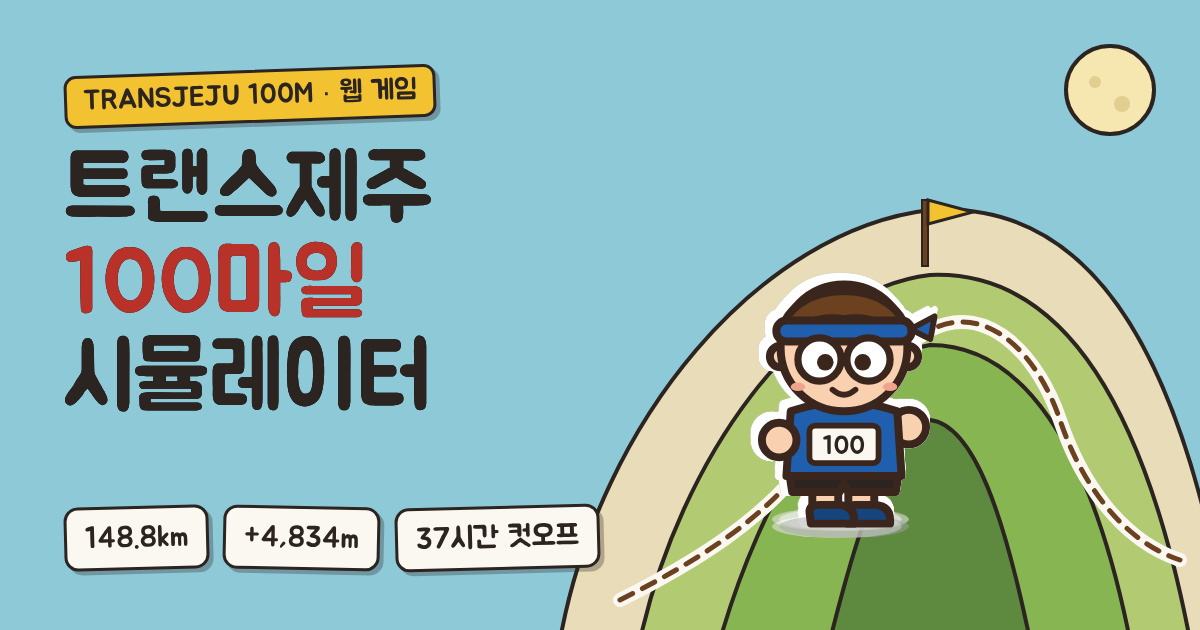
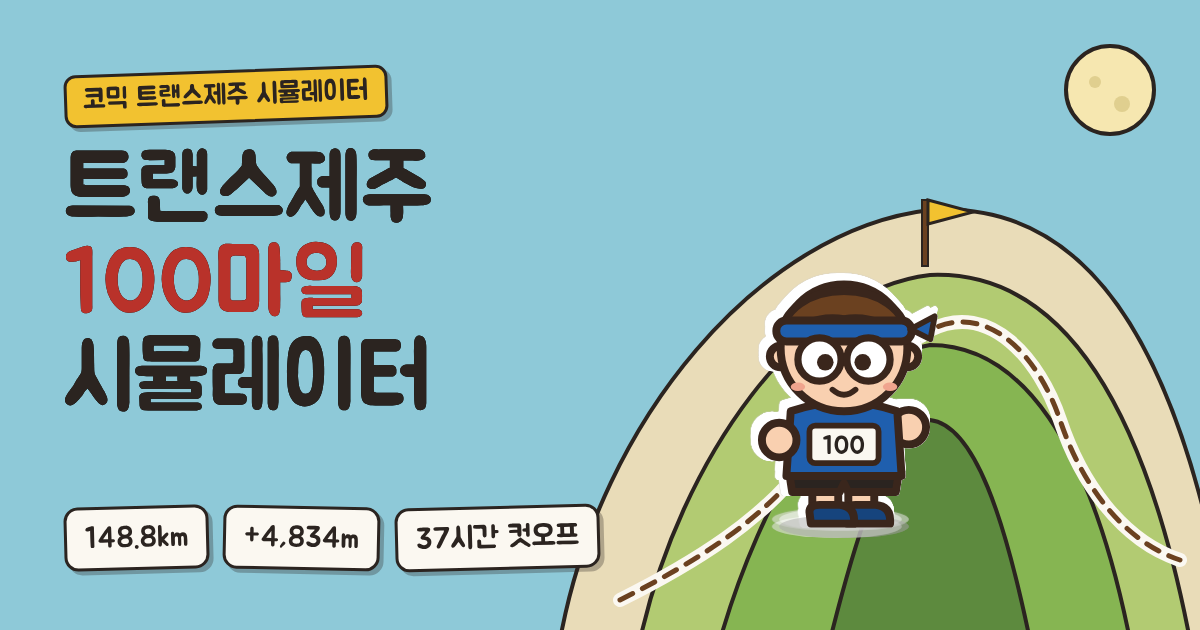
Add files via upload

Changed region(s): [[0.0617, 0.0905, 0.37, 0.2111]]

diff --git a/index.html b/index.html
@@ -1,7 +1,7 @@
 <!doctype html><html lang="ko"><head><meta charset="utf-8"><meta name="viewport" content="width=device-width,initial-scale=1,viewport-fit=cover">
-<meta name="description" content="한라산을 넘는 148.8km. 보급과 CP 선택으로 가상 러너 100명 중 1위를 노리는 트레일러닝 시뮬레이션 게임.">
+<meta name="description" content="코믹 트랜스제주 시뮬레이터. 한라산을 넘는 148.8km, 젤·노상 볼일·멧돼지와 함께 가상 1위를 노리는 트레일러닝 게임.">
 <meta property="og:type" content="website"><meta property="og:site_name" content="트랜스제주 100마일 시뮬레이터">
-<meta property="og:title" content="트랜스제주 100마일 시뮬레이터"><meta property="og:description" content="한라산을 넘는 148.8km. 보급과 CP 선택으로 가상 1위를 노려 보세요.">
+<meta property="og:title" content="트랜스제주 100마일 시뮬레이터"><meta property="og:description" content="코믹 트랜스제주 시뮬레이터. 젤·노상 볼일·멧돼지와 함께 한라산 148.8km를 달려 가상 1위를 노려 보세요.">
 <meta property="og:url" content="https://spacehwi.github.io/transjeju/"><meta property="og:image" content="https://spacehwi.github.io/transjeju/og.png"><meta property="og:image:width" content="1200"><meta property="og:image:height" content="630">
 <meta name="twitter:card" content="summary_large_image"><meta name="twitter:title" content="트랜스제주 100마일 시뮬레이터"><meta name="twitter:image" content="https://spacehwi.github.io/transjeju/og.png">
 <link rel="icon" href="favicon.svg" type="image/svg+xml"><link rel="icon" href="favicon-32.png" sizes="32x32" type="image/png"><link rel="apple-touch-icon" href="apple-touch-icon.png"><meta name="theme-color" content="#f2c230">
@@ -102,6 +102,8 @@ input[type=text]{font-family:var(--display);font-size:20px;border:2px solid var(
 .mapbox svg{display:block;width:100%;height:auto}
 .quip{position:absolute;left:50%;top:12px;transform:translateX(-50%) rotate(-1deg);max-width:min(78%,520px);background:var(--card);border:2px solid var(--ink);border-radius:14px;box-shadow:3px 3px 0 var(--shadow);padding:7px 14px;font-family:var(--display);font-size:16px;line-height:1.3;text-align:center;pointer-events:none;z-index:2}
 .quip::after{content:'';position:absolute;left:50%;bottom:-9px;width:14px;height:14px;background:var(--card);border-right:2px solid var(--ink);border-bottom:2px solid var(--ink);transform:translateX(-50%) rotate(45deg)}
+.quip .fxs{justify-content:center;margin-top:5px}
+.quip.event{background:#fff1b8}
 .quip.pop{animation:quipIn .35s ease-out}
 @keyframes quipIn{from{opacity:0;transform:translateX(-50%) translateY(-8px) rotate(-3deg)}to{opacity:1;transform:translateX(-50%) rotate(-1deg)}}
 @media (max-width:560px){.quip{font-size:13px;padding:5px 10px;max-width:88%}}
@@ -213,14 +215,13 @@ input[type=text]{font-family:var(--display);font-size:20px;border:2px solid var(
   .cplist{grid-template-columns:minmax(0,1fr)}
 }
 </style>
-<script src="firebase-config.js"></script></head><body>
-<div class="app" id="app">
+<script src="firebase-config.js"></script></head><body><div class="app" id="app">
 
 <!-- ============ SETUP ============ -->
 <section id="scrSetup" style="display:flex;flex-direction:column;gap:16px">
   <header class="hero">
     <div>
-      <div class="lbl">TRANSJEJU 100M · 가상 레이스</div>
+      <div class="lbl">코믹 트랜스제주 시뮬레이터 · 가상 레이스</div>
       <h1>트랜스제주 <b>100마일</b> 시뮬레이터</h1>
       <p>금요일 밤 9시 제주월드컵경기장 출발. 한라산 정상을 넘어 동쪽 들판과 숲을 돌아 다시 경기장으로. 보급과 CP 선택으로 가상 1위를 노리세요.</p>
     </div>
@@ -312,8 +313,7 @@ input[type=text]{font-family:var(--display);font-size:20px;border:2px solid var(
 </div>
 <div id="modalRoot"></div>
 <div class="toast" id="toast" style="opacity:0"></div>
-<script>
-/*CORE*/
+<script>/*CORE*/
 // ---------- course data (TransJeju 100M, 148.8 km) ----------
 const START_CLOCK = 21 * 60; // Fri 21:00
 const STEP = 0.1;
@@ -509,7 +509,7 @@ const FUN = [
   {id:'snake', w:2, text:'발밑에서 뱀이 스르륵. 심장이 먼저 결승선에 갔다.', M:-6, day:true},
   {id:'cheer', w:3, text:'응원단이 내 이름을 불렀다. 배번을 읽은 거지만 감동이다.', M:8, low:true},
   {id:'lost',  w:2, modal:true, title:'리본이 안 보인다', text:'한참 리본을 못 봤다. 길을 잘못 들었나?', M:-5},
-  {id:'rain',  w:2, text:'비가 쏟아진다. 신발이 수족관이 됐다.', M:-4},
+  {id:'rain',  w:2, text:'비가 쏟아진다. "비는 받아들여라." 받아들일 수밖에 없다.', M:-4},
   {id:'horse', w:2, text:'목장의 말이 같이 뛰어 준다. 말이 더 잘 뛴다.', M:4, low:true},
   {id:'cat',   w:2, text:'CP 앞 고양이가 내 바나나를 노린다.', M:3, low:true},
   {id:'owl',   w:2, text:'부엉이가 운다. 무서운 건지 졸린 건지 모르겠다.', M:-2, night:true},
@@ -535,9 +535,10 @@ const FUN = [
 ];
 function pickFun(st){
   const hc = clockHour(st.t), night = hc >= 19.5 || hc < 6, ele = elevAt(st.km);
-  const pool = FUN.filter(f => !(f.day && night) && !(f.night && !night) && !(f.high && ele < 900) && !(f.low && ele > 700) && !(f.sleepy && st.Z < 50) && !(f.late && st.km < 100));
+  st.funSeen = st.funSeen || {};
+  const pool = FUN.filter(f => (st.funSeen[f.id] || 0) < (f.modal ? 1 : 2) && !(f.day && night) && !(f.night && !night) && !(f.high && ele < 900) && !(f.low && ele > 700) && !(f.sleepy && st.Z < 50) && !(f.late && st.km < 100));
   let r = Math.random() * pool.reduce((a, f) => a + f.w, 0);
-  for (const f of pool){ r -= f.w; if (r <= 0) return f; }
+  for (const f of pool){ r -= f.w; if (r <= 0){ st.funSeen[f.id] = (st.funSeen[f.id] || 0) + 1; return f; } }
   return null;
 }
 function rollEvents(st, km){
@@ -549,7 +550,7 @@ function rollEvents(st, km){
   if (st.F > 35 && !st.blister && ok('blister') && chance(0.002*(1.6 - 0.05*s.dur))){ st.blister = true; st.cd.blister = km + 10; return {type:'blister'}; }
   if (st.E < 8 && ok('bonk')){ st.cd.bonk = km + 3; return {type:'bonk'}; }
   if (st.M < 4 && ok('quit')){ st.cd.quit = km + 6; return {type:'quit'}; }
-  if (ok('fun') && chance(0.035)){ st.cd.fun = km + 1.3; const f = pickFun(st); if (f) return {type:'fun', f}; }
+  if (ok('fun') && chance(0.02)){ st.cd.fun = km + 2; const f = pickFun(st); if (f) return {type:'fun', f}; }
   return null;
 }
 const SCENIC = [
@@ -576,7 +577,7 @@ function advance(st, dtMin){
     for (const sc of SCENIC) if (st.km >= sc.km && !st.flags[sc.id]){ st.flags[sc.id] = true; st.M += sc.M; clamp(st); return {type:'scenic', text:sc.text}; }
     if (hitCP) return {type:'cp', idx: st.seg + 1};
     for (let m = Math.floor(k0*10) + 1; m <= Math.floor(st.km*10); m++){ const ev = rollEvents(st, m/10); if (ev) return ev; }
-    if (st.t >= st.nextSupply){ st.nextSupply = st.t + 30 + Math.random()*12; if (st.km < TOTAL_KM - 2) return {type:'supply'}; }
+    if (st.t >= st.nextSupply){ st.nextSupply = st.t + 38 + Math.random()*12; if (st.km < TOTAL_KM - 2) return {type:'supply'}; }
   }
   return null;
 }
@@ -598,7 +599,7 @@ const FOOD = {
   noodle:  {name:'컵라면',        min:5, c:50, w:350, na:1500, caf:0,  hint:'탄수 50g · 국물 350ml · 나트륨 1500mg', fx:st => { st.M += 10; }},
   coffee:  {name:'커피',          min:1, c:0,  w:150, na:0,    caf:80, hint:'카페인 80mg'},
   toilet:  {name:'화장실',        min:3, c:0,  w:0,   na:0,    caf:0,  hint:'화장실 비우기 · 속 편하게', fx:st => { st.B = 0; st.S = Math.max(0, st.S - 15); st.holding = false; if (Math.random() < 0.3){ st.t += 4; st.M -= 3; st.note = '간이화장실 줄이 7명. 다들 같은 표정이다. 4분 대기.'; } }},
-  rest:    {name:'의자에 앉아 쉬기', min:5, c:0, w:0, na:0,    caf:0,  hint:'멘탈↑ 근피로 조금↓', fx:st => { st.F -= 3; st.M += 8; st.Z += 3; }},
+  rest:    {name:'의자에 앉아 쉬기', min:5, c:0, w:0, na:0,    caf:0,  hint:'멘탈↑ · "의자를 조심하라"', fx:st => { st.F -= 3; st.M += 8; st.Z += 3; }},
   dropbag: {name:'드롭백 재보급', min:3, c:0,  w:0,   na:0,    caf:0,  hint:'보급품 충전 — 젤 8·카페인젤 2·바 2·소금 8', crew:true, fx:st => { st.inv = {...KIT, water: st.inv.water}; }},
   socks:   {name:'양말·신발 교체', min:6, c:0, w:0,   na:0,    caf:0,  hint:'물집 해결', crew:true, fx:st => { st.blister = false; st.F -= 2; st.M += 5; }},
   nap:     {name:'파워냅 15분',   min:15, c:0, w:0,   na:0,    caf:0,  hint:'졸음 리셋·멘탈↑↑', crew:true, fx:st => { st.Z = 5; st.M += 15; }},
@@ -939,9 +940,20 @@ function statusTags(){
   const hc = clockHour(st.t); if (hc >= 19.5 || hc < 6) t.push('야간 · 헤드랜턴');
   return t.map(x => `<span class="tag">${x}</span>`).join('');
 }
-function addLog(text){ st.log.unshift(fmtClock(st.t).slice(2) + '  ' + text); st.log.length = Math.min(st.log.length, 6); $('#log').innerHTML = st.log.map(l => `<div>${esc(l)}</div>`).join(''); }
+let lastLogText = '';
+function addLog(text){ lastLogText = text; st.log.unshift(fmtClock(st.t).slice(2) + '  ' + text); st.log.length = Math.min(st.log.length, 6); $('#log').innerHTML = st.log.map(l => `<div>${esc(l)}</div>`).join(''); }
 let toastT = 0;
-function toast(text){ const el = $('#toast'); el.textContent = text; el.style.opacity = 1; clearTimeout(toastT); toastT = setTimeout(() => el.style.opacity = 0, 2600); }
+// All race messages go to the speech bubble above the map; stat changes appear as coloured chips.
+let sayUntil = 0;
+function say(text, fx){
+  const el = document.getElementById('quip'); if (!el) return;
+  el.classList.remove('pop'); void el.offsetWidth; el.classList.add('pop');
+  el.classList.toggle('event', !!(fx && fx.length) || !!text);
+  el.innerHTML = `<span></span>${fx && fx.length ? `<div class="fxs">${fxChips(fx)}</div>` : ''}`;
+  el.querySelector('span').textContent = text || '';
+  sayUntil = performance.now() + 7000; quipLast = performance.now();
+}
+function toast(text, fx){ say(text, fx); }
 function standings(){
   const list = rivals.map((r, i) => ({ name: r.name, km: rivalKm(r, st.t), fin: st.t >= r.target ? r.target : null, rival: i }));
   list.push({ name: me.name, km: st.km, fin: finished ? st.t : null, me: true });
@@ -1068,26 +1080,27 @@ function previewFx(keys){
 
 // ---------- runner monologue (black comedy) ----------
 const QUIPS = {
-  bonk:  ['몸이 배터리 1%에서 업데이트를 하겠냐고 묻는다.','젤 하나에 영혼을 팔 수 있다. 시세는 많이 떨어졌지만.','다리가 파업 중. 요구사항은 탄수화물 하나.','방금 내 그림자가 나를 추월했다.'],
-  dry:   ['땀이 안 난다. 몸이 수분을 사치품으로 분류했다.','입안이 현무암이다. 구멍까지 똑같다.','물 생각을 너무 해서 바다가 맛있어 보인다.'],
-  salt:  ['종아리가 쥐 날 타이밍을 재고 있다. 눈치가 보인다.','몸에서 소금기가 빠져나간다. 이제 싱거운 사람이 됐다.'],
-  gut:   ['위장이 오늘부로 퇴사 의사를 밝혔다.','지금 방귀는 도박이다. 판돈이 너무 크다.','배 속에서 젤들이 회의 중. 결론은 \'밖으로\'.','먹은 게 다 위에 줄 서 있다. 소화 대기 번호 37번.'],
-  legs:  ['허벅지가 내 이름을 모른다고 한다.','무릎이 유언장을 쓰고 있다. 상속자는 정형외과.','다리가 내 말을 안 듣는다. 원래도 안 들었지만.'],
-  sleep: ['방금 돌하르방이 나한테 인사했다. 아마도.','눈 뜨고 자는 법을 터득했다. 달리는 건 몸이 알아서 한다.','나무가 사람처럼 보인다. 사람이 나무처럼 보이면 더 큰일이다.'],
-  pee:   ['화장실 생각뿐이다. 인생 우선순위 정리 완료.','방광이 컷오프보다 먼저 온다.','적당한 덤불을 찾는 눈이 독수리처럼 예리해졌다.','방광이 나보다 먼저 결승선에 가려고 한다.'],
-  mind:  ['왜 돈 내고 이걸 하고 있지? 그것도 추첨까지 해서.','완주 메달은 결국 서랍에 들어간다. 알면서도 간다.','다음 생엔 그냥 귤 농사 짓는다.'],
+  bonk:  ['"울트라는 풍경 좀 곁들인 먹기 대회다." 나는 지금 그 대회에서 지는 중.','"일단 먹어라." 기권 이유 1순위는 안 먹어서라던데.','다리가 파업 중. 요구사항은 탄수화물 하나.','방금 내 그림자가 나를 추월했다.'],
+  dry:   ['"목마르기 전에 마셔라." 이미 늦었다.','입안이 현무암이다. 구멍까지 똑같다.','물 생각을 너무 해서 바다가 맛있어 보인다.'],
+  salt:  ['종아리가 쥐 날 타이밍을 재고 있다. 눈치가 보인다.','땀에서 소금꽃이 핀다. 몸이 소금을 수출 중이다.'],
+  gut:   ['울트라 제1법칙: 방귀를 믿지 마라.','위장이 오늘부로 퇴사 의사를 밝혔다.','먹은 게 다 위에 줄 서 있다. 소화 대기 번호 37번.'],
+  legs:  ['"무릎은 소모품이다." 오늘 많이 소모하는 중.','허벅지가 내 이름을 모른다고 한다.','다리가 내 말을 안 듣는다. 원래도 안 들었지만.'],
+  sleep: ['방금 돌하르방이 나한테 인사했다. 아마도.','눈 뜨고 자는 법을 터득했다. 달리는 건 몸이 알아서 한다.','"걷다가 졸면 걷는 게 아니다." 누가 한 말인지 기억도 안 난다.'],
+  pee:   ['"덤불은 아무도 판단하지 않는다." 울트라 격언이다. 덤불 물색 중.','방광이 컷오프보다 먼저 온다.','적당한 덤불을 찾는 눈이 독수리처럼 예리해졌다.'],
+  mind:  ['"항상 나빠지기만 하는 건 아니다." 선배들 말이다. 믿어 보자.','"집에 있는 사람들은 지금 소파에서 피자 먹는다." 이 생각은 도움이 안 된다.','"DNF가 DNS보다 낫다." 그래도 DNF는 싫다.','힘들 땐 내 장례식을 상상하라는 조언이 있다. 조문객이 생각보다 적다.','"그만둘 거면 의자에 10분 앉아 보고 결정해라." …의자가 없다.'],
   blister:['발바닥 물집이 자기 동네를 만들었다. 이장도 뽑았다.','한 걸음마다 발이 나한테 리뷰를 남긴다. 별 한 개.'],
   hold:  ['참는 중. 이건 레이스가 아니라 수행이다.','지금 이 순간, 표정 관리가 제일 어려운 종목이다.'],
   cramp: ['종아리가 독립선언을 했다.','근육이 돌처럼 굳었다. 제주답다.'],
-  cutoff:['컷오프가 뒤에서 숨을 쉰다. 입냄새까지 느껴진다.','시계를 보면 안 된다. 시계도 나를 안 보고 싶어 한다.'],
-  up:    ['오르막이 끝나면 더 큰 오르막이 있다. 한라산은 거짓말을 안 한다.','방금 등산객이 나를 추월했다. 그분은 지팡이를 짚었다.','오르막에서 뛰는 척하는 중. 아무도 속지 않는다.'],
+  cutoff:['컷오프가 뒤에서 숨을 쉰다. 입냄새까지 느껴진다.','"시계는 거짓말을 한다." 제발 이번엔 거짓말이길.'],
+  up:    ['"오르막은 걷는 거다. 걷는 건 반칙이 아니다."','방금 등산객이 나를 추월했다. 그분은 지팡이를 짚었다.','오르막에서 뛰는 척하는 중. 아무도 속지 않는다.'],
   down:  ['중력은 공짜인데 무릎값은 내가 낸다.','내리막에서 넘어지면 빠르긴 하다.'],
-  night: ['헤드랜턴 불빛 안에서만 세상이 존재한다. 철학 아님, 그냥 졸림.','어둠 속에서 뭔가 반짝인다. 노루 눈이거나, 환각이거나.'],
-  front: ['내가 상위권? 다들 길을 잃은 게 분명하다.','앞에 아무도 없다. 길을 잘못 든 건 아니겠지.'],
-  back:  ['뒤에서 1등 노리는 중. 경쟁이 치열하지 않아 유리하다.','앞사람 헤드랜턴이 별처럼 멀다.'],
+  night: ['헤드랜턴 불빛 안에서만 세상이 존재한다.','앞 주자 헤드랜턴만 따라가는 중. 저 사람도 길 모르면 끝이다.','밤공기가 차다. 바람막이를 꺼낼까 말까 10분째 고민 중.','리본 반사판이 반짝일 때마다 안심한다.'],
+  nightLate: ['헤드랜턴 불빛 안에서만 세상이 존재한다. 철학 아님, 그냥 졸림.','어둠 속에서 뭔가 반짝인다. 노루 눈이거나, 환각이거나.','두 번째 밤이다. 몸이 "이거 어제도 했잖아"라고 항의한다.'],
+  front: ['"추월할 땐 겸손하게." 숨 헐떡이며 겸손 연기 중.','내가 상위권? 다들 길을 잃은 게 분명하다.'],
+  back:  ['뒤에서 1등 노리는 중. 경쟁이 치열하지 않아 유리하다.','"남과 비교하지 마라." 비교할 사람도 안 보인다.'],
   push:  ['밀어붙이는 중. 미래의 나에게 청구서를 보내는 중.','지금 신나는 건 나중의 내가 갚는다.'],
-  easy:  ['아끼는 중. 뭘 아끼는지는 나도 모른다.','천천히 가는 것도 전략이다. 라고 나에게 말해 주는 중.'],
-  fine:  ['아직 괜찮다. 이 문장을 몇 시간 뒤에 후회할 예정.','기분이 좋다. 분명 뭔가 잘못됐다는 신호다.','148.8km라니. 차로 가도 멀다.','제주 바람이 응원해 준다. 아니, 그냥 맞바람이다.','오늘의 목표: 살아서 경기장 보기.']
+  easy:  ['아끼는 중. 뭘 아끼는지는 나도 모른다.','"초반에 아끼면 후반에 웃는다." 라고 나에게 말해 주는 중.'],
+  fine:  ['"지금 이 1마일만 달려라." 남은 건 140km 넘지만.','"계획은 덜, 적응은 더." 계획은 출발선에서 이미 무너졌다.','아직 괜찮다. 이 문장을 몇 시간 뒤에 후회할 예정.','다들 출발할 때 너무 빨랐다. 나도 그랬다.','제주 바람이 응원해 준다. 아니, 그냥 맞바람이다.','"레이스 날엔 새로운 건 금지." 새 양말 신고 왔다.']
 };
 let quipLast = 0, quipKey = '', quipRecent = [];
 function quipCandidates(){
@@ -1098,7 +1111,7 @@ function quipCandidates(){
   if (st.S > 70) c.push(['gut', 7]); if (st.H < 30) c.push(['dry', 7]); if (st.Z > 65) c.push(['sleep', 6]);
   if (st.B > 80) c.push(['pee', 6]); if (st.F > 65) c.push(['legs', 5]); if (st.Na < 25) c.push(['salt', 5]); if (st.blister) c.push(['blister', 4]);
   if (g > 0.1) c.push(['up', 3]); if (g < -0.1) c.push(['down', 3]);
-  if (hc >= 21 || hc < 5) c.push(['night', 2]);
+  if (hc >= 21 || hc < 5) c.push([st.t > 1200 ? 'nightLate' : 'night', 2]);
   const sd = standings(), r = sd.findIndex(x => x.me) + 1;
   if (r <= 5 && st.km > 3) c.push(['front', 2]); if (r > sd.length * 0.7) c.push(['back', 2]);
   if (st.pace === 'push') c.push(['push', 2]); if (st.pace === 'easy') c.push(['easy', 1]);
@@ -1107,6 +1120,7 @@ function quipCandidates(){
 }
 function quip(force){
   const now = performance.now();
+  if (now < sayUntil) return;
   const c = quipCandidates(), top = c[0][0];
   if (!force && top === quipKey && now - quipLast < 16000) return;
   if (!force && now - quipLast < 5000) return;
@@ -1115,8 +1129,8 @@ function quip(force){
   quipRecent.push(line); if (quipRecent.length > 8) quipRecent.shift();
   quipKey = top; quipLast = now;
   const el = document.getElementById('quip'); if (!el) return;
-  el.classList.remove('pop'); void el.offsetWidth; el.classList.add('pop');
-  el.querySelector('span').textContent = line;
+  el.classList.remove('pop', 'event'); void el.offsetWidth; el.classList.add('pop');
+  el.innerHTML = '<span></span>'; el.querySelector('span').textContent = line;
 }
 
 // ---------- modals ----------
@@ -1125,31 +1139,31 @@ function showModal({kick, title, body, choices, gauges}){
   modalOpen = true;
   const html = `<div class="ov"><div class="paper modal" role="dialog" aria-modal="true" aria-labelledby="mTitle">${kick ? `<div class="kick">${kick}</div>` : ''}<h3 id="mTitle">${title}</h3>${body || ''}${gauges ? `<div class="mini">${gaugeHTML()}</div>` : ''}<div class="mbtns">${choices.map((c, i) => `<button type="button" class="btn ${c.primary ? 'primary' : ''}" data-ch="${i}" ${c.disabled ? 'disabled' : ''}>${c.label}</button>`).join('')}</div></div></div>`;
   $('#modalRoot').innerHTML = html;
-  $('#modalRoot').querySelectorAll('[data-ch]').forEach(b => b.addEventListener('click', () => { const c = choices[+b.dataset.ch]; closeModal(); const a = st ? snap() : null; c.act && c.act(); if (!st) return; clamp(st); const fx = a ? diffFx(a, snap()) : []; if (fx.length && !st.dnf) toast(fxText(fx)); renderRace(true); }));
+  $('#modalRoot').querySelectorAll('[data-ch]').forEach(b => b.addEventListener('click', () => { const c = choices[+b.dataset.ch]; closeModal(); const a = st ? snap() : null; c.act && c.act(); if (!st) return; clamp(st); const fx = a ? diffFx(a, snap()) : []; if (!st.dnf && (fx.length || lastLogText)) say(lastLogText, fx); renderRace(true); }));
   const f = $('#modalRoot').querySelector('[data-ch]'); f && f.focus();
 }
 function useItem(k){ if (st.inv[k] <= 0) return; st.inv[k]--; consume(st, ITEMS[k]); st.t += ITEMS[k].min; clamp(st); }
 function openSupply(auto){
   modalOpen = true;
   const flavor = ['숨을 고르며 주머니를 뒤진다.','오르막 전에 뭐라도 넣어 둘까?','발걸음을 늦추고 보급 타이밍.','목이 마르다. 뭐부터 먹지?'];
-  const used = []; let last = null;
+  const used = []; let last = null, joke = ''; const supStart = snap();
   const draw = () => {
     const opts = Object.entries(ITEMS).map(([k, it]) => `<button type="button" class="opt ${recommend(st, k) ? 'rec' : ''}" data-it="${k}" ${st.inv[k] <= 0 ? 'disabled' : ''}>${recommend(st, k) ? '<span class="recb">추천</span>' : ''}${iconSVG(k)}<span class="ot"><span class="on">${it.name}</span><span class="oh">${it.hint}</span></span><span class="cnt">${st.inv[k]}</span></button>`).join('')
       + (st.B > 45 ? `<button type="button" class="opt ${recommend(st, 'pee') ? 'rec' : ''}" data-it="pee">${recommend(st, 'pee') ? '<span class="recb">추천</span>' : ''}${iconSVG('pee')}<span class="ot"><span class="on">노상 볼일</span><span class="oh">화장실 비우기 · 1.5분</span></span></button>` : '');
     $('#modalRoot').innerHTML = `<div class="ov"><div class="paper modal" role="dialog" aria-modal="true" aria-labelledby="mTitle"><div class="kick">${st.km.toFixed(1)} km · ${fmtClock(st.t)}</div><h3 id="mTitle">${auto ? '보급 타이밍' : '보급 꺼내기'}</h3>
-      ${last ? `<div class="fxline" role="status">${iconSVG(last.k, 28)}<div><b>${last.name}</b> 먹음<div class="fxs">${fxChips(last.fx) || '<span class="fx">변화 없음</span>'}</div></div></div>` : `<p>${auto ? flavor[Math.floor(st.km) % flavor.length] : '걸으면서 주머니에서 꺼내 먹어요.'}</p>`}
+      ${last ? `<div class="fxline" role="status">${iconSVG(last.k, 28)}<div><b>${last.name}</b> ${last.k === 'pee' ? '해결' : '먹음'}${last.joke ? `<div style="margin-top:2px">${esc(last.joke)}</div>` : ''}<div class="fxs">${fxChips(last.fx) || '<span class="fx">변화 없음</span>'}</div></div></div>` : `<p>${auto ? flavor[Math.floor(st.km) % flavor.length] : '걸으면서 주머니에서 꺼내 먹어요.'}</p>`}
       ${eatMult(st) > 1 ? `<div class="sumline warn">연속으로 먹는 중 — 다음 보급은 위장 부담 <b class="num">×${eatMult(st).toFixed(1)}</b></div>` : ''}<div class="mini">${gaugeHTML()}</div>${intakeHTML(false)}<div class="opts">${opts}</div><div class="mbtns"><button type="button" class="btn primary" id="supDone">${used.length ? '계속 달리기' : '패스하고 달리기'}</button></div></div></div>`;
     $('#modalRoot').querySelectorAll('[data-it]').forEach(b => b.addEventListener('click', () => {
       const k = b.dataset.it, a = snap();
-      if (k === 'pee'){ st.B = 0; st.t += 1.5; st.M -= 1; const hc = clockHour(st.t); if ((hc >= 19.5 || hc < 6) && Math.random() < 0.4){ st.M -= 2; toast('볼일 중 뒤 주자 헤드랜턴 다섯 개가 나를 비췄다. 무대 데뷔.'); addLog('헤드랜턴 조명 아래 노상 볼일'); } else if (Math.random() < 0.25){ toast('바람 방향을 잘못 읽었다. 신발이 조금 젖었다.'); st.M -= 2; } }
+      if (k === 'pee'){ st.B = 0; st.t += 1.5; st.M -= 1; const hc = clockHour(st.t); if ((hc >= 19.5 || hc < 6) && Math.random() < 0.4){ st.M -= 2; joke = '볼일 중 뒤 주자 헤드랜턴 다섯 개가 나를 비췄다. 무대 데뷔.'; } else if (Math.random() < 0.25){ joke = '바람 방향을 잘못 읽었다. 신발이 조금 젖었다.'; st.M -= 2; } }
       else useItem(k);
       clamp(st);
       const name = k === 'pee' ? '노상 볼일' : ITEMS[k].name, fx = diffFx(a, snap());
-      used.push(name); last = {k, name, fx};
+      used.push(name); last = {k, name, fx, joke}; if (joke) addLog(joke); joke = '';
       addLog(name + (fx.length ? ' — ' + fxText(fx) : ''));
       draw();
     }));
-    $('#supDone').addEventListener('click', () => { closeModal(); renderRace(true); });
+    $('#supDone').addEventListener('click', () => { closeModal(); if (used.length) say((last && last.joke) || (used.join(', ') + ' 먹고 다시 출발'), diffFx(supStart, snap())); renderRace(true); });
     $('#supDone').focus();
   };
   draw();
@@ -1180,7 +1194,7 @@ function arriveCP(idx){
     const a = snap();
     for (const k of list){ consume(st, FOOD[k]); st.t += FOOD[k].min; }
     clamp(st); const fx = diffFx(a, snap());
-    if (st.note){ toast(st.note); addLog(st.note); st.note = null; } else if (list.length && fx.length) toast(`CP${idx} 보급 효과 — ${fxText(fx)}`);
+    if (st.note){ say(st.note, fx); addLog(st.note); st.note = null; } else if (list.length) say(`CP${idx} ${cp.short}에서 ${list.map(k => FOOD[k].name).join(', ')}`, fx); else say(`CP${idx} ${cp.short} 통과. 쿨하게.`, []);
     clamp(st); st.splits[st.splits.length - 1].dep = st.t; st.stopMin += st.t - arr;
     closeModal();
     if (st.t > cp.cut){ st.dnf = {where: cp.name, why: `${cp.name}에서 오래 머물러 컷오프(${fmtClock(cp.cut)})를 넘겼어요.`}; return endRace(); }
@@ -1193,7 +1207,7 @@ function handleEvent(ev){
   if (ev.type === 'scenic'){ toast(ev.text); addLog(ev.text); return; }
   if (ev.type === 'fun'){
     const f = ev.f;
-    if (!f.modal){ const a = snap(); st.M += f.M; if (f.F) st.F += f.F; if (f.carbs) ingest(st, {c:f.carbs, w:0, na:0, caf:0}); clamp(st); const fx = diffFx(a, snap()); toast(f.text + (fx.length ? ' (' + fxText(fx) + ')' : '')); addLog(f.text); return; }
+    if (!f.modal){ const a = snap(); st.M += f.M; if (f.F) st.F += f.F; if (f.carbs) ingest(st, {c:f.carbs, w:0, na:0, caf:0}); clamp(st); const fx = diffFx(a, snap()); say(f.text, fx); addLog(f.text); return; }
     if (f.choices) return showModal({kick:'레이스 중 사건', title:f.title, body:`<p>${f.text}</p>`, gauges:true, choices:f.choices.map(c => ({label:c.label, primary:c.primary, act(){
       if (c.t) st.t += c.t; if (c.M) st.M += c.M; if (c.F) st.F += c.F; if (c.S) st.S = Math.max(0, st.S + c.S); if (c.B) st.B = Math.max(0, st.B + c.B); if (c.hold) st.holding = true;
       if (c.risk === 'fall') st.lace = true; addLog(c.log); }}))});
@@ -1202,7 +1216,7 @@ function handleEvent(ev){
       {label:'소리 지르며 지나간다', primary:true, act(){ st.M -= 8; st.F += 3; st.Z -= 15; addLog('멧돼지에게 고함치며 통과. 잠은 확 깼다'); }}]});
     if (f.id === 'lost') return showModal({kick:'길 찾기', title:f.title, body:`<p>${f.text}</p>`, gauges:true, choices:[
       {label:'마지막 리본까지 되돌아간다 (6분)', act(){ st.t += 6; st.M -= 5; addLog('리본까지 되돌아감'); }},
-      {label:'GPS 확인 (2분, 운에 맡김)', primary:true, act(){ st.t += 2; if (Math.random() < 0.5){ st.t += 7; st.M -= 8; addLog('GPS를 믿었다가 더 헤맸다'); toast('GPS를 믿었는데… 더 헤맸다. 7분 손해.'); } else addLog('GPS 확인, 제 길이었다'); }}]});
+      {label:'GPS 확인 (2분, 운에 맡김)', primary:true, act(){ st.t += 2; if (Math.random() < 0.5){ st.t += 7; st.M -= 8; addLog('GPS를 믿었는데… 더 헤맸다. 7분 손해'); } else addLog('GPS 확인, 제 길이었다'); }}]});
     return;
   }
   if (ev.type === 'supply') return openSupply(true);
